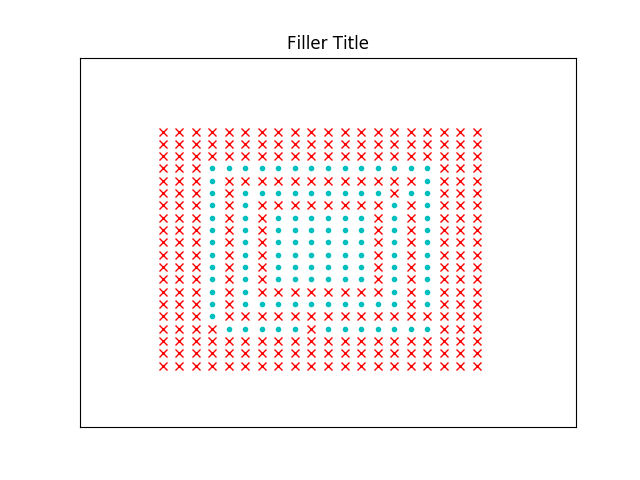
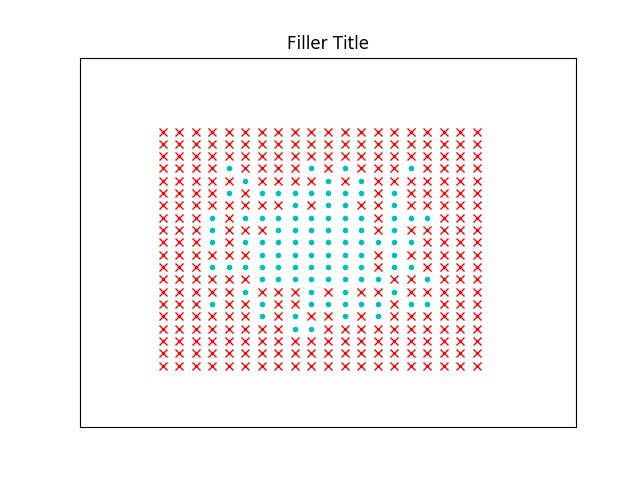
New Diffusion Fix

diff --git a/Cellular.py b/Cellular.py
@@ -18,14 +18,16 @@ class Automata:
     def lattice_input(self):
         for i in range(self.dim):
             for j in range(self.dim):
-                if (i < 15) and (i >= 5) and (j < 15) and (j >= 5):  #For a central square block
-                #if (i % 2 == 1) and (j % 2 == 1):                      #For an alternating grid
+                if (i < 15) and (i >= 5) and (j < 15) and (j >= 5):  # For a central square block
+                #if (i % 2 == 1) and (j % 2 == 1):                      # For an alternating grid
+                #if i == 10:                                            # For a line
                     self.lattice[i,j] = 1
                     self.newsites[i,j] = 1
         self.generate_lattice()
 
     def evolution(self):
         self.newsites = np.copy(self.lattice)
+        newfilled = []
         for i in range(self.dim):
             for j in range(self.dim):
                 neighbourcount = 0      # A simple model could depend on just the number of occupied neighbours
@@ -51,12 +53,12 @@ class Automata:
                         straightbelowcount += a
                     if element[1] == 1 and element[0] == 0:
                         straightabovecount += a
-                while counter <= len(emptyneighbourlist):
-                    if len(emptyneighbourlist) != 0:
-                        randcoordinate = random.randint(0,len(emptyneighbourlist) - 1)
+                if len(emptyneighbourlist) != 0:
+                    randcoordinate = random.randint(0,len(emptyneighbourlist) - 1)
+                    if [(i + emptyneighbourlist[randcoordinate][0]) % self.dim, (j + emptyneighbourlist[randcoordinate][1]) % self.dim] not in newfilled:
                         self.newsites[i, j] = 0
                         self.newsites[(i + emptyneighbourlist[randcoordinate][0]) % self.dim, (j + emptyneighbourlist[randcoordinate][1]) % self.dim] = 1
-                    counter += 1
+                        newfilled.append([(i + emptyneighbourlist[randcoordinate][0]) % self.dim, (j + emptyneighbourlist[randcoordinate][1]) % self.dim])
                 #if straightabovecount == 1 and straightbelowcount == 0:
                     #self.newsites[i,j] = 1
                 #if straightbelowcount == 1 and straightabovecount == 0:
